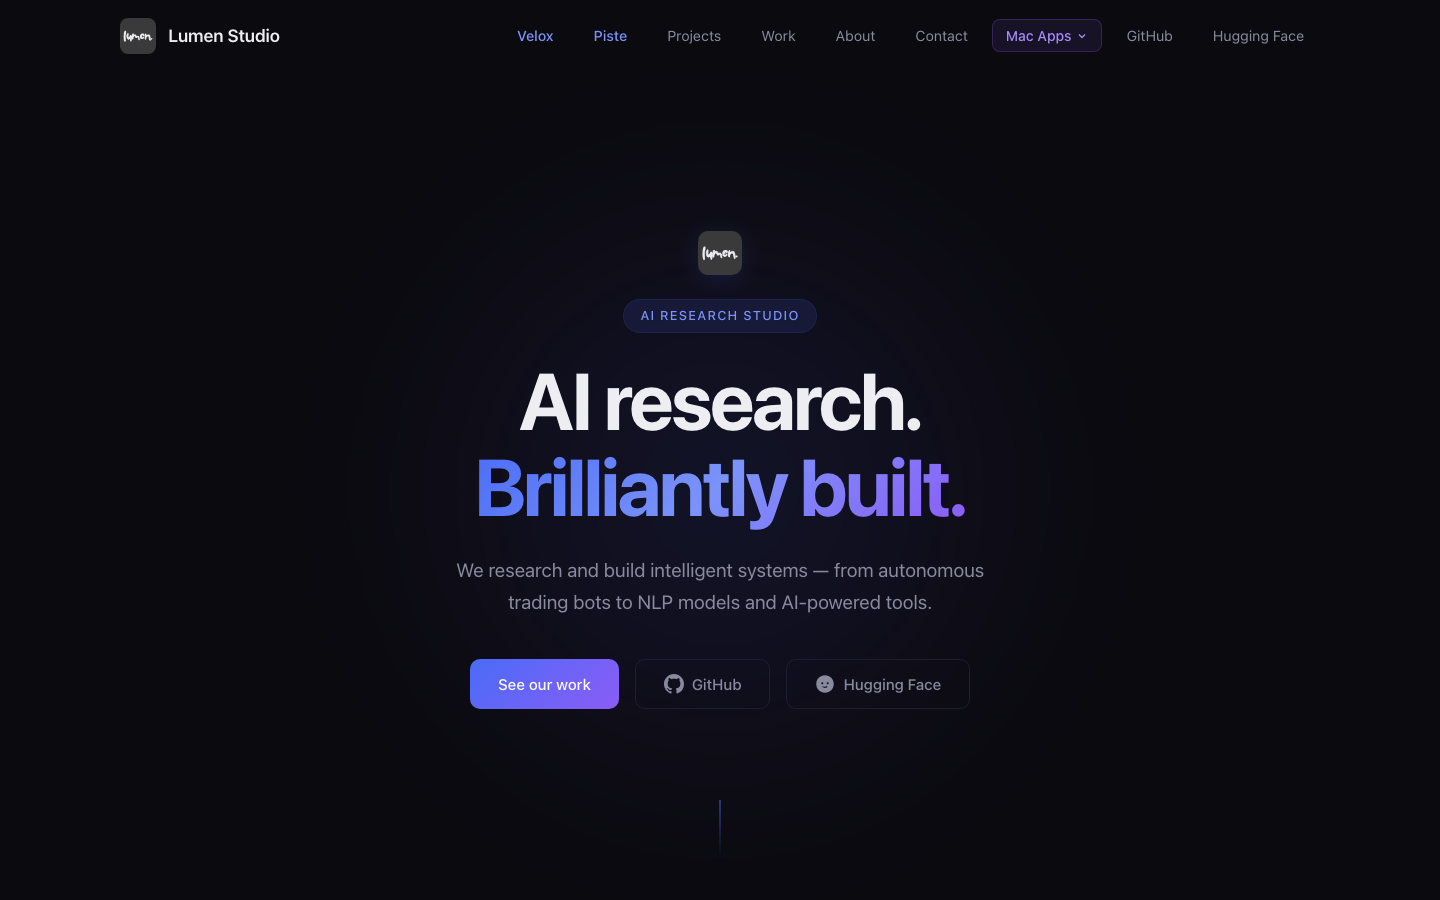
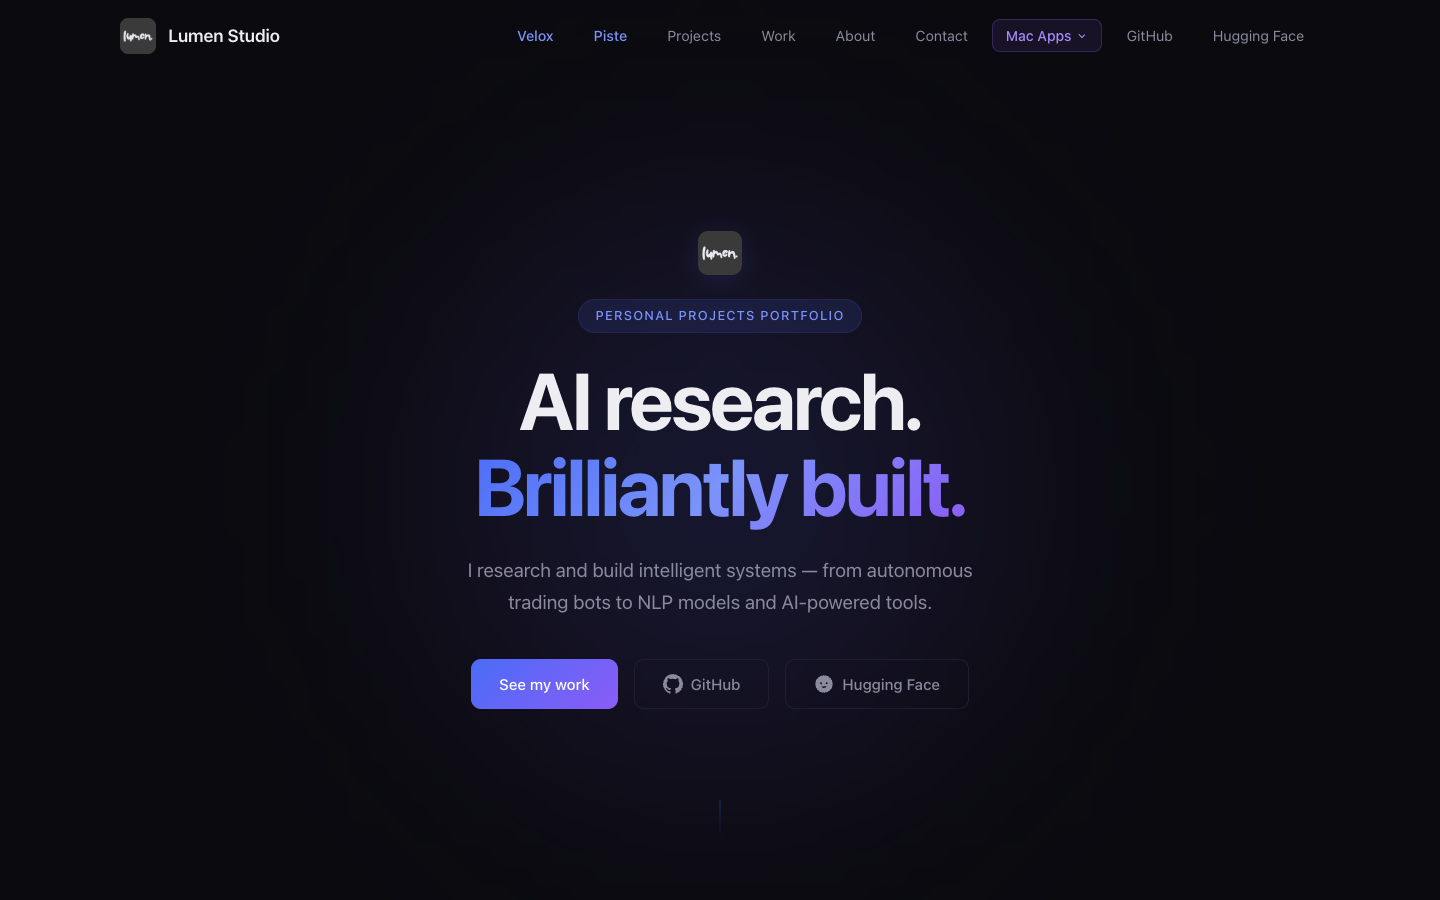
Refresh README screenshots and describe the accessible nav
Regenerate the four preview screenshots from the current site so they show
the personal projects wording and the fixed navigation.

diff --git a/README.md b/README.md
@@ -38,7 +38,7 @@ A fast, dependency-free static site written in plain HTML, CSS and JavaScript. T
 
 ## Features
 
-- Responsive layout with a mobile navigation menu
+- Responsive layout: the nav collapses into a slide-out menu below 1180px, with focus states, `aria-expanded` and Escape-to-close
 - Scroll-triggered fade-in animations and a sticky, blurred nav bar
 - Open Graph and Twitter Card metadata with canonical URLs for clean link previews
 - Custom `404` page, `robots.txt` and `sitemap.xml`
